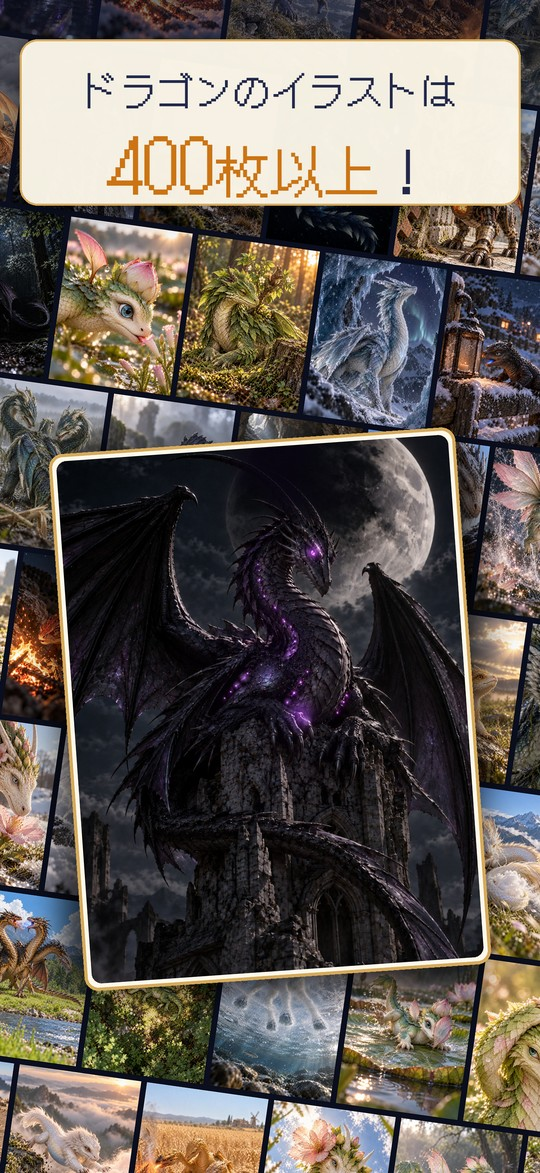
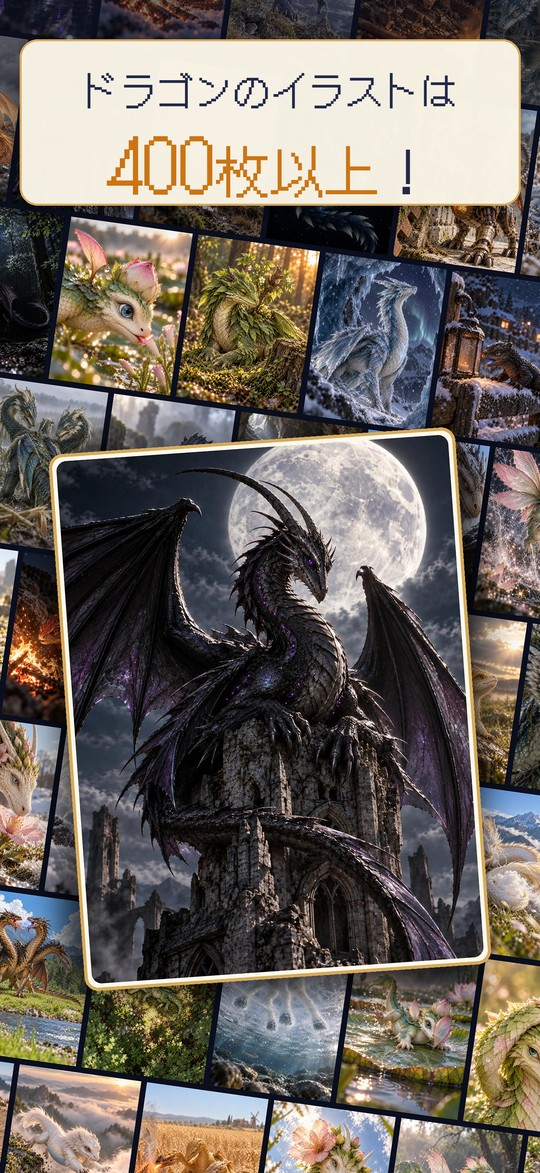
トップのフォーカスドラゴン：左の「400 枚以上」の真ん中の蝕月竜を、エフェクトなしのもとの絵（最終形態のイラスト 1・trueform_29_s3）に（だいきさん）
- ストアの 6 枚目の道具（_store の screenshots/illust400.py の proposal_a）で、FEATURED_FILE（動く絵のコマ）を使わずに組んだ。サイト用だけで、ストアのスクショと道具は触っていない
- 確かめ：同じ道具で今のまま組むとストアの 6 枚目（out_1106/ja/L/06_illust.png）と画素まで同じ・差し替えで変わったのは真ん中の額の中だけ
- 540px に縮めて assets/dragon_focus_screen_2.jpg に・画像の版の印を ?v=20261106c に

Changed region(s): [[0.0889, 0.3683, 0.8889, 0.8593]]

diff --git a/index.html b/index.html
@@ -91,7 +91,7 @@
 -->
 </div>
 <div class="duo reveal-duo">
-<img src="/assets/dragon_focus_screen_2.jpg?v=20261106b" alt="フォーカスドラゴンのドラゴンのイラスト" loading="lazy" width="540" height="1173">
+<img src="/assets/dragon_focus_screen_2.jpg?v=20261106c" alt="フォーカスドラゴンのドラゴンのイラスト" loading="lazy" width="540" height="1173">
 <img src="/assets/dragon_focus_screen_1.jpg" alt="フォーカスドラゴンの画面" loading="lazy" width="540" height="1173">
 </div>
 </div>
